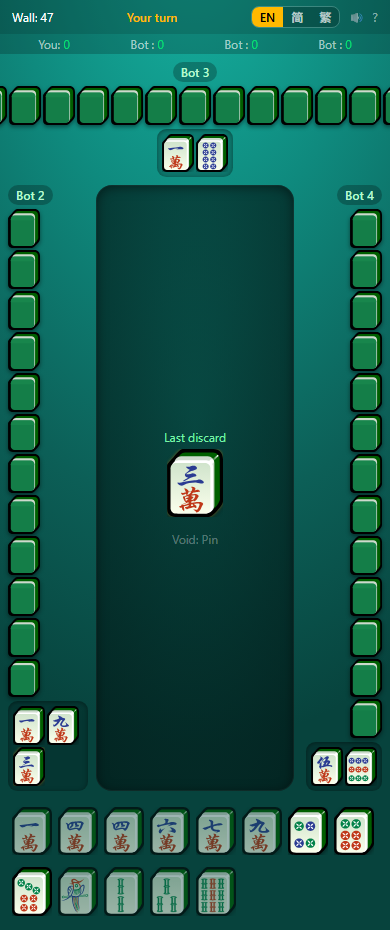
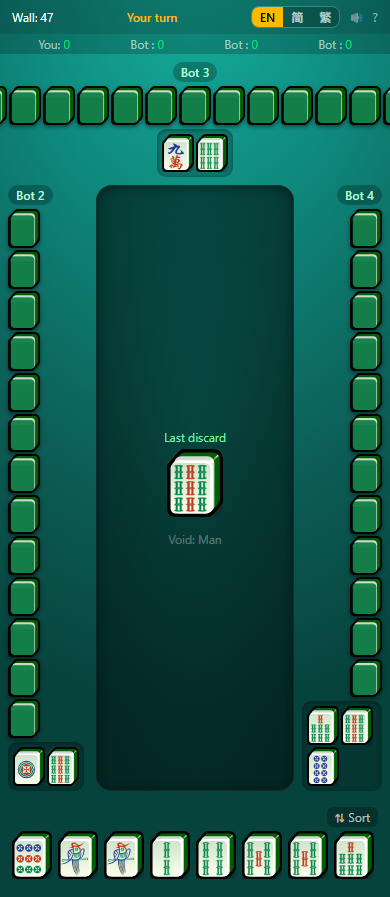
Add drag-to-reorder hand + Sort button (tap-vs-drag via pointer threshold); regen screenshots incl. fixed round-end

diff --git a/packages/client/src/screens/Game.tsx b/packages/client/src/screens/Game.tsx
@@ -1,5 +1,5 @@
-import { useState } from 'react';
-import { motion, AnimatePresence } from 'framer-motion';
+import { useEffect, useRef, useState } from 'react';
+import { motion, AnimatePresence, Reorder } from 'framer-motion';
 import { tileTypeOf, tileFromType } from '@sichuan-mahjong/engine';
 import type { PlayerView, TileId, Suit } from '@sichuan-mahjong/engine';
 import { useStore } from '../store/index.js';
@@ -288,6 +288,25 @@ function PlayPhase({ view }: { view: PlayerView }) {
   const play = useSound();
   const t = useT();
 
+  // Local hand arrangement: lets the player drag tiles to organise their hand.
+  // Reconciled against the server hand on every update — keep the custom order
+  // for tiles still held, drop discarded/claimed ones, append newly drawn tiles.
+  const hand = view.you.hand;
+  const [handOrder, setHandOrder] = useState<TileId[]>(() => [...hand]);
+  // Distinguish a tap (select/discard) from a drag (reorder) by pointer travel,
+  // since Framer's Reorder.Item preventDefaults pointerdown and eats onClick/onTap.
+  const tapStart = useRef<{ x: number; y: number } | null>(null);
+  useEffect(() => {
+    setHandOrder(prev => {
+      const inHand = new Set(hand);
+      const kept = prev.filter(id => inHand.has(id));
+      const keptSet = new Set(kept);
+      const added = hand.filter(id => !keptSet.has(id));
+      return [...kept, ...added];
+    });
+    // hand is a fresh array each server view; reconcile whenever it changes.
+  }, [hand]);
+
   const isMyTurn = view.turn === seat && view.phase === 'play' && view.claimDeadline === null;
   const canDiscard = isMyTurn && view.yourLegalActions.some(a => a.t === 'discard');
   const canHu = view.yourLegalActions.some(a => a.t === 'declareHuOnDraw');
@@ -445,21 +464,44 @@ function PlayPhase({ view }: { view: PlayerView }) {
         </div>
       )}
 
-      {/* Your hand */}
+      {/* Your hand — drag tiles to rearrange; Sort resets to the standard order */}
       <div className="px-3 py-2">
-        <div className="flex flex-wrap gap-1.5">
-          {view.you.hand.map(id => (
-            <div
-              key={id}
-              className={legalDiscards.has(id) ? '' : 'opacity-60'}
-            >
-              <Tile id={id} selected={selectedTile === id} onClick={handleTileTap} />
-            </div>
-          ))}
+        <div className="flex items-center justify-between mb-1">
+          <span className="text-xs text-amber-300 h-4">
+            {selectedTile !== null ? t('play.tapDiscard') : ''}
+          </span>
+          <button
+            className="text-xs px-2 py-0.5 rounded-md bg-black/25 text-white/70 hover:text-white"
+            onClick={() => setHandOrder([...hand])}
+            title={t('play.sort')}
+          >
+            ⇅ {t('play.sort')}
+          </button>
         </div>
-        {selectedTile !== null && (
-          <p className="text-xs text-amber-300 mt-1 text-center">{t('play.tapDiscard')}</p>
-        )}
+        <Reorder.Group
+          axis="x"
+          values={handOrder}
+          onReorder={setHandOrder}
+          className="flex gap-1.5 overflow-x-auto pb-1 list-none"
+        >
+          {handOrder.map(id => (
+            <Reorder.Item
+              key={id}
+              value={id}
+              className={`shrink-0 ${legalDiscards.has(id) ? '' : 'opacity-60'}`}
+              onPointerDown={(e) => { tapStart.current = { x: e.clientX, y: e.clientY }; }}
+              onPointerUp={(e) => {
+                const s = tapStart.current;
+                tapStart.current = null;
+                // Treat as a tap (not a drag-to-reorder) only if the pointer barely moved.
+                if (s && Math.hypot(e.clientX - s.x, e.clientY - s.y) < 10) handleTileTap(id);
+              }}
+              whileDrag={{ scale: 1.08, zIndex: 10 }}
+            >
+              <Tile id={id} selected={selectedTile === id} interactive={false} />
+            </Reorder.Item>
+          ))}
+        </Reorder.Group>
         {view.you.status === 'hu' && (
           <motion.p
             initial={{ scale: 0 }}

diff --git a/packages/client/src/components/Tile.tsx b/packages/client/src/components/Tile.tsx
@@ -18,9 +18,15 @@ export type TileProps = {
   lastDiscard?: boolean;
   onClick?: (id: TileId) => void;
   size?: 'sm' | 'md' | 'lg';
+  /**
+   * When false, the tile attaches no pointer/long-press handlers and is purely
+   * visual — used inside a draggable hand (Reorder.Item) where the parent owns
+   * the tap + drag gestures, so they don't fight the tile's own handlers.
+   */
+  interactive?: boolean;
 };
 
-export function Tile({ id, selected = false, lastDiscard = false, onClick, size = 'md' }: TileProps) {
+export function Tile({ id, selected = false, lastDiscard = false, onClick, size = 'md', interactive = true }: TileProps) {
   const { suit, rank } = tileFromType(tileTypeOf(id));
   const src = `/tiles/${suit}-${rank}.svg`;
   const [preview, setPreview] = useState(false);
@@ -30,6 +36,16 @@ export function Tile({ id, selected = false, lastDiscard = false, onClick, size 
     onClick ? () => onClick(id) : undefined,
   );
 
+  const pointerProps = interactive
+    ? {
+        onPointerDown: longPress.onPointerDown,
+        onPointerLeave: () => { longPress.onPointerLeave(); setPreview(false); },
+        onPointerCancel: () => { longPress.onPointerCancel(); setPreview(false); },
+        onPointerUp: () => { longPress.onPointerUp(); setPreview(false); },
+        onClick: onClick ? () => { if (!longPress.pointerHandledRef.current) onClick(id); } : undefined,
+      }
+    : {};
+
   return (
     <>
       <motion.div
@@ -38,17 +54,13 @@ export function Tile({ id, selected = false, lastDiscard = false, onClick, size 
           SIZE_CLASSES[size],
           selected ? 'is-selected' : '',
           lastDiscard ? 'tile-last-discard' : '',
-          onClick ? 'cursor-pointer' : 'cursor-default',
+          interactive && onClick ? 'cursor-pointer' : 'cursor-default',
         ].filter(Boolean).join(' ')}
         animate={{ y: selected ? -10 : 0 }}
-        {...(onClick ? { whileHover: { y: selected ? -10 : -3 }, whileTap: { scale: 0.93 } } : {})}
+        {...(interactive && onClick ? { whileHover: { y: selected ? -10 : -3 }, whileTap: { scale: 0.93 } } : {})}
         transition={{ type: 'spring', stiffness: 500, damping: 22 }}
         title={`${suit}-${rank}`}
-        onPointerDown={longPress.onPointerDown}
-        onPointerLeave={() => { longPress.onPointerLeave(); setPreview(false); }}
-        onPointerCancel={() => { longPress.onPointerCancel(); setPreview(false); }}
-        onPointerUp={() => { longPress.onPointerUp(); setPreview(false); }}
-        onClick={onClick ? () => { if (!longPress.pointerHandledRef.current) onClick(id); } : undefined}
+        {...pointerProps}
       >
         <img src={src} alt={`${suit}-${rank}`} className="tile-face" draggable={false} />
       </motion.div>

diff --git a/packages/client/src/i18n/index.ts b/packages/client/src/i18n/index.ts
@@ -95,6 +95,7 @@ const en: Dict = {
   'play.tapDiscard': 'Tap again to discard',
   'play.youWon': 'You won this round!',
   'play.loading': 'Loading game…',
+  'play.sort': 'Sort',
 
   'kong.concealed': 'concealed',
   'kong.promoted': 'promoted',
@@ -205,6 +206,7 @@ const zhHans: Dict = {
   'play.tapDiscard': '再次点击打出',
   'play.youWon': '你赢了这局！',
   'play.loading': '加载中…',
+  'play.sort': '理牌',
 
   'kong.concealed': '暗杠',
   'kong.promoted': '补杠',
@@ -315,6 +317,7 @@ const zhHant: Dict = {
   'play.tapDiscard': '再次點擊打出',
   'play.youWon': '你贏了這局！',
   'play.loading': '載入中…',
+  'play.sort': '理牌',
 
   'kong.concealed': '暗槓',
   'kong.promoted': '補槓',